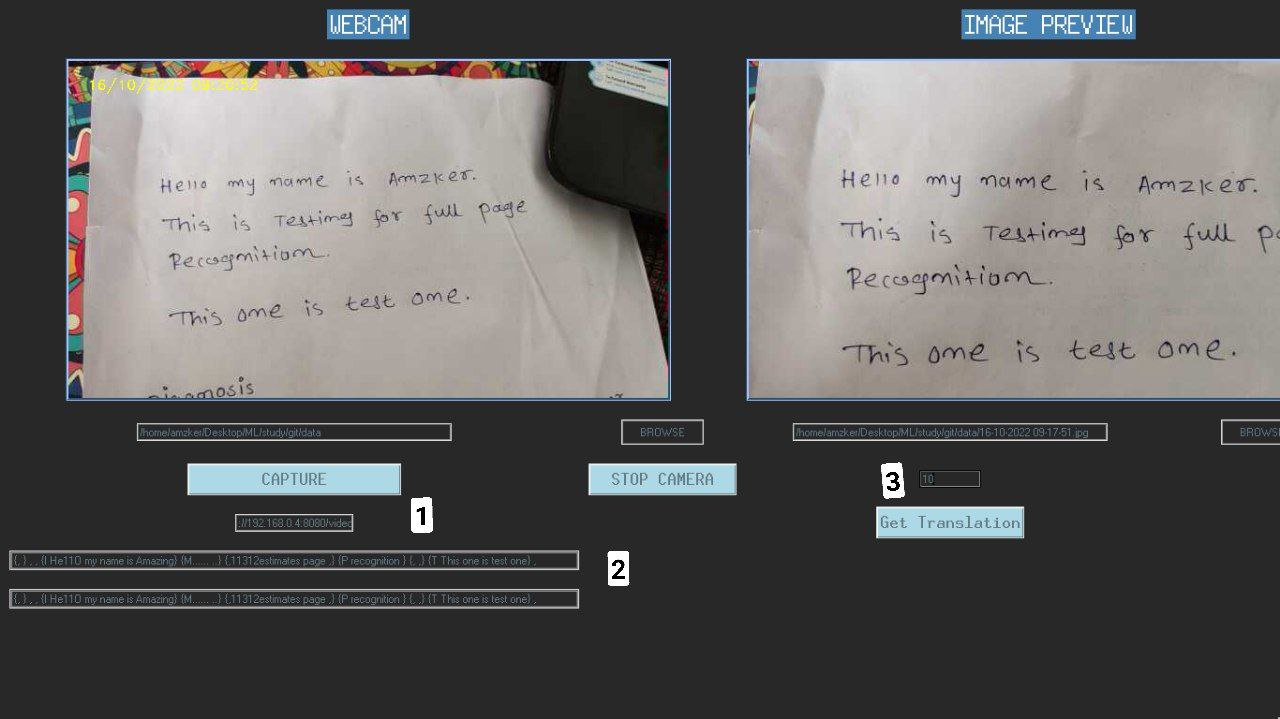
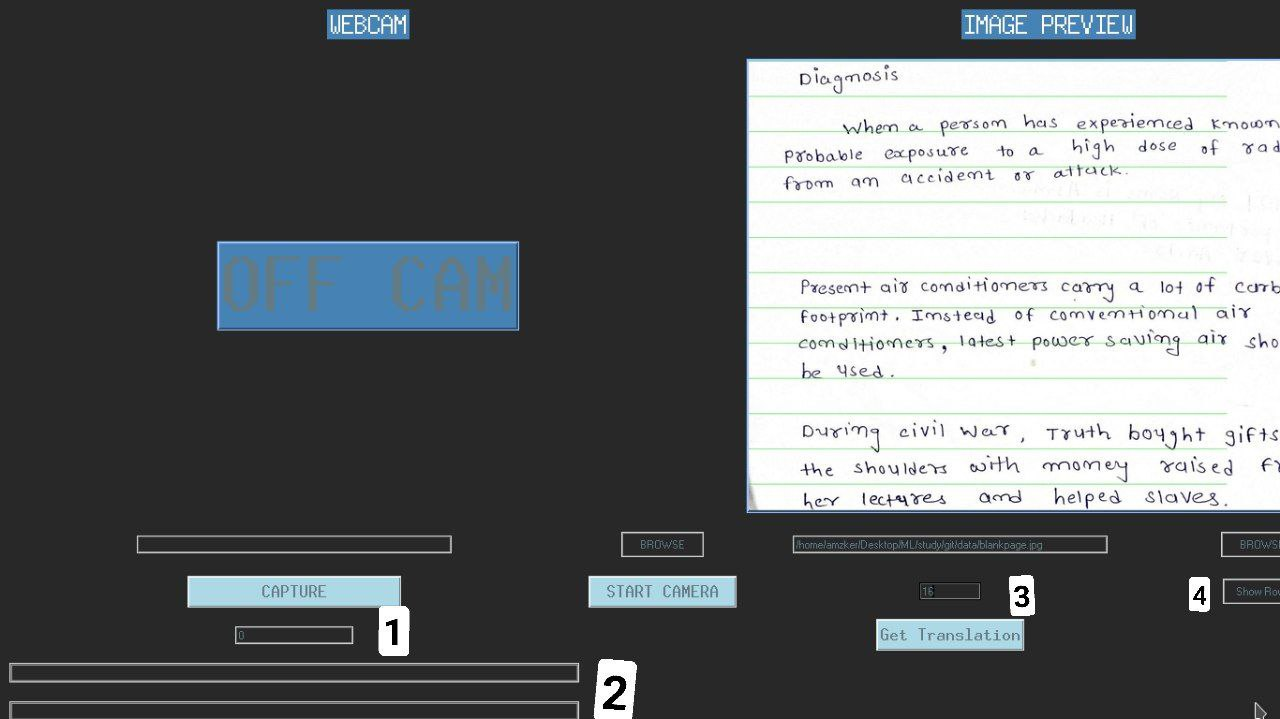
added rowview

diff --git a/src/camera.py b/src/camera.py
@@ -97,6 +97,9 @@ def createwidgets():
     
     root.RawNumEntry = Entry(root, width=10, textvariable=rawno)
     root.RawNumEntry.grid(row=4, column=4, padx=10, pady=10)
+    
+    root.RowSowBTN = Button(root, text="Show Rows", command=ShowRow)
+    root.RowSowBTN.grid(row=4, column=5)
 
     root.openImageButton = Button(root, width=10, text="BROWSE", command=imageBrowse)
     root.openImageButton.grid(row=3, column=5, padx=10, pady=10)
@@ -245,7 +248,21 @@ def StartCAM():
     # Calling the ShowFeed() Function
     ShowFeed()
     
-    
+def ShowRow():
+    rows = int(rawno.get())
+    image = cv2.imread(imagePath.get())
+    height, width = image.shape[1], image.shape[0]
+    PerRow = int(height/rows)
+    for i in range(0,height,PerRow):
+        image = cv2.line(image, (0,i), (width,i), (0, 255, 0),1)
+    cv2.imwrite("rowed.jpg", image)
+    image = Image.open("rowed.jpg")
+    image = image.resize((640, 480), Image.ANTIALIAS)
+    image = ImageTk.PhotoImage(image)
+    root.imageLabel.config(image=image)
+    root.imageLabel.photo = image
+
+
 def translate():
     if imagePath.get() != '':
         if rawno.get() != '':

diff --git a/README.md b/README.md
@@ -34,6 +34,7 @@ inaccuracy may arise if cutted line have chipped charectors
       1 = webcam url or number like 0 [default is 0].
       2 = Here is where your translated text will come 
       3 = Row no means in how many rows you want to divide your page to give full page input as line by line to model. use 1 for full page (if full page have only 1 line)
+      4 = Button if pressed it shows from where image is going to get cut based on row no 
 ```
 3. in 1 add your desired camera number or ip (as given in screenshot)
 4. hit stop camera and start camera again to load your input camera
